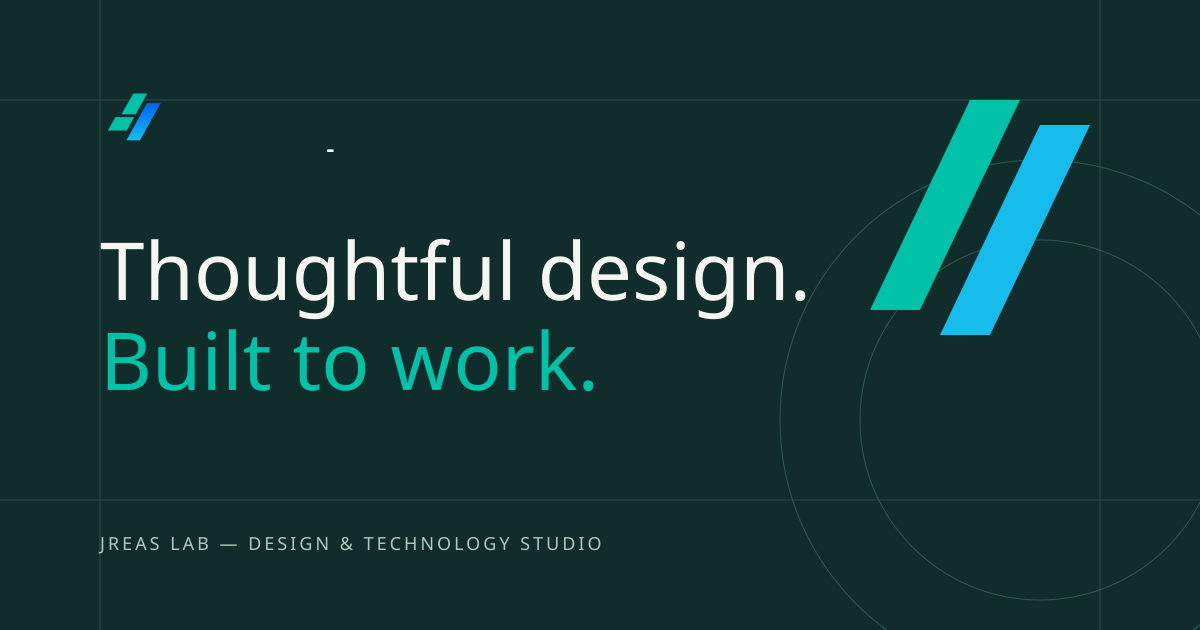
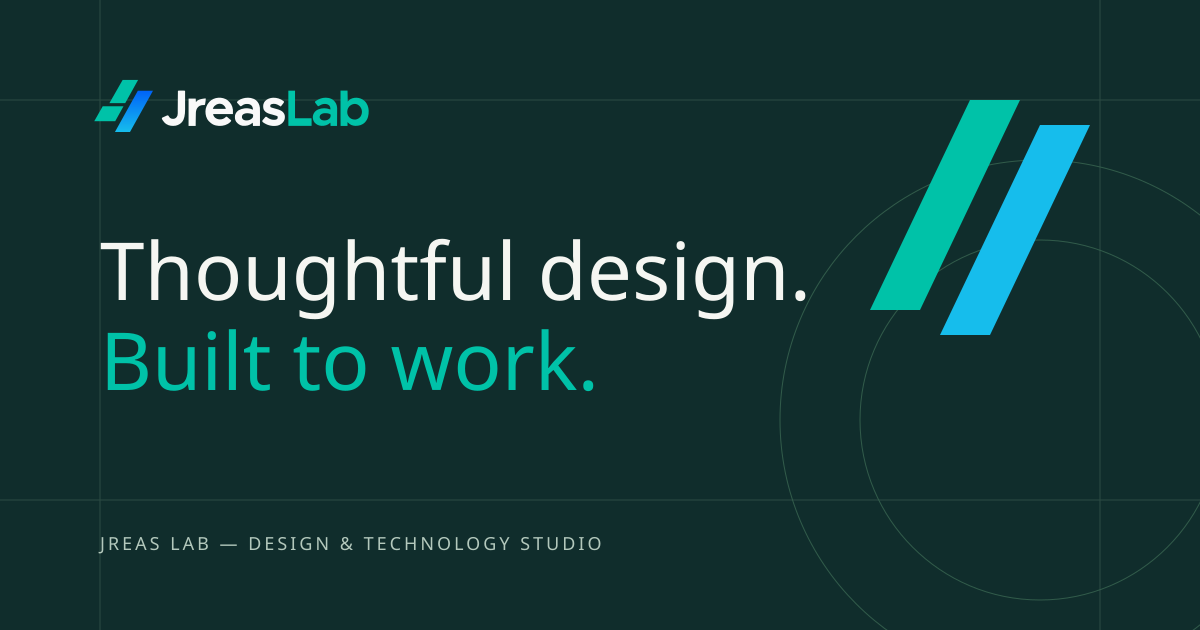
fix: restore full wordmark and add responsive accessibility review

Changed region(s): [[0.0617, 0.1206, 0.3083, 0.2413]]

diff --git a/src/utils/seo.js b/src/utils/seo.js
@@ -3,7 +3,7 @@ import {services} from '../data/services';
 import {projects} from '../data/projects';
 export const SITE_URL=(import.meta.env?.VITE_SITE_URL||'https://jreaslab-global.vercel.app').replace(/\/$/,'');
 export function publicPaths(){return ['ar','en'].flatMap(lang=>['','/services',...services.map(s=>`/services/${s.slug}`),'/work',...projects.map(p=>`/work/${p.slug}`),'/about','/contact'].map(p=>`/${lang}${p}`));}
-export function getMeta(pathname){const clean=pathname.replace(/\/$/,'')||'/ar';const segments=clean.split('/').filter(Boolean),lang=segments[0]==='en'?'en':'ar',r=resources[lang].translation;const page=segments[1]||'home';let title=r.seo[page]||r.seo.home,description=r.seo.description;let valid=publicPaths().includes(clean);if(segments[1]==='services'&&segments[2]){const s=services.find(s=>s.slug===segments[2]);if(s){title=`${s[lang].title} | Jreas Lab`;description=s[lang].short;}}if(segments[1]==='work'&&segments[2]){const p=projects.find(p=>p.slug===segments[2]);if(p){title=`${p[lang].title} — ${r.common.concept} | Jreas Lab`;description=p[lang].summary;}}if(!valid){title=`404 | Jreas Lab`;description=r.common.notfound;}const suffix=segments.slice(1).join('/');return {title,description,lang,dir:lang==='ar'?'rtl':'ltr',url:`${SITE_URL}${clean}`,ar:`${SITE_URL}/ar${suffix?'/'+suffix:''}`,en:`${SITE_URL}/en${suffix?'/'+suffix:''}`,valid};}
+export function getMeta(pathname){const clean=pathname.replace(/\/$/,'')||'/ar';const segments=clean.split('/').filter(Boolean),lang=segments[0]==='en'?'en':'ar',r=resources[lang].translation;const page=segments[1]||'home';let title=r.seo[page]||r.seo.home,description=({services:r.services.description,work:r.work.description,about:r.about.description,contact:r.contact.description})[page]||r.seo.description;let valid=publicPaths().includes(clean);if(segments[1]==='services'&&segments[2]){const s=services.find(s=>s.slug===segments[2]);if(s){title=`${s[lang].title} | Jreas Lab`;description=s[lang].short;}}if(segments[1]==='work'&&segments[2]){const p=projects.find(p=>p.slug===segments[2]);if(p){title=`${p[lang].title} — ${r.common.concept} | Jreas Lab`;description=p[lang].summary;}}if(!valid){title=`404 | Jreas Lab`;description=r.common.notfound;}const suffix=segments.slice(1).join('/');return {title,description,lang,dir:lang==='ar'?'rtl':'ltr',url:`${SITE_URL}${clean}`,ar:`${SITE_URL}/ar${suffix?'/'+suffix:''}`,en:`${SITE_URL}/en${suffix?'/'+suffix:''}`,valid};}
 const escape=(s)=>String(s).replace(/[&<>"']/g,c=>({'&':'&amp;','<':'&lt;','>':'&gt;','"':'&quot;',"'":'&#39;'}[c]));
 export function renderHead(meta){const m=meta;return `<title>${escape(m.title)}</title><meta name="description" content="${escape(m.description)}"/><meta name="robots" content="${m.valid?'index,follow':'noindex,follow'}"/><link rel="canonical" href="${m.url}"/><link rel="alternate" hreflang="ar" href="${m.ar}"/><link rel="alternate" hreflang="en" href="${m.en}"/><link rel="alternate" hreflang="x-default" href="${m.ar}"/><meta property="og:type" content="website"/><meta property="og:site_name" content="Jreas Lab"/><meta property="og:title" content="${escape(m.title)}"/><meta property="og:description" content="${escape(m.description)}"/><meta property="og:url" content="${m.url}"/><meta property="og:locale" content="${m.lang==='ar'?'ar_PS':'en_US'}"/><meta property="og:image" content="${SITE_URL}/images/og-cover.png"/><meta property="og:image:width" content="1200"/><meta property="og:image:height" content="630"/><meta name="twitter:card" content="summary_large_image"/><meta name="twitter:title" content="${escape(m.title)}"/><meta name="twitter:description" content="${escape(m.description)}"/><meta name="twitter:image" content="${SITE_URL}/images/og-cover.png"/><script type="application/ld+json">${JSON.stringify({'@context':'https://schema.org','@type':'Organization',name:'Jreas Lab',url:SITE_URL,logo:`${SITE_URL}/images/logo-dark.svg`,email:'info@jreaslab.com',telephone:'+970597747340',sameAs:['https://www.linkedin.com/company/jreas-lab1/','https://www.instagram.com/jreas_lab/','https://x.com/JreasLab'],contactPoint:{'@type':'ContactPoint',contactType:'customer service',email:'info@jreaslab.com',availableLanguage:['Arabic','English']}})}</script>`;}
 export function applyMeta(meta){document.title=meta.title;const temp=document.createElement('template');temp.innerHTML=renderHead(meta);document.head.querySelectorAll('meta[name="description"],meta[name="robots"],link[rel="canonical"],link[rel="alternate"][hreflang],meta[property^="og:"],meta[name^="twitter:"],script[type="application/ld+json"]').forEach(n=>n.remove());Array.from(temp.content.children).filter(n=>n.tagName!=='TITLE').forEach(n=>document.head.appendChild(n));}

diff --git a/src/components/sections/Process.jsx b/src/components/sections/Process.jsx
@@ -2,4 +2,4 @@ import {useState,useId} from 'react';
 import {Plus,Minus} from 'lucide-react';
 import {useLocale} from '../../hooks/useLocale';
 import {SectionHead} from '../ui/Elements';
-export default function Process(){const {t}=useLocale();const [active,setActive]=useState(0);const id=useId();const steps=t('process.steps',{returnObjects:true});return <section className="process-section section"><div className="container"><SectionHead eyebrow={t('process.eyebrow')} title={t('process.title')} description={t('process.description')}/><div className="process-layout"><div className="process-art" aria-hidden="true"><div className="process-track">{steps.map((_,i)=><span key={i} className={i===active?'current':''}><i/>0{i+1}</span>)}</div><div className="process-big-number">0{active+1}<span>/ 05</span></div><span className="process-caption">JREAS LAB — {new Date().getFullYear()}</span></div><div className="process-list">{steps.map((s,i)=><div key={s.title} className={`process-step ${i===active?'is-open':''}`}><h3><button id={`${id}-button-${i}`} aria-expanded={active===i} aria-controls={`${id}-panel-${i}`} onClick={()=>setActive(active===i?-1:i)}><span className="step-number">0{i+1}</span>{s.title}{active===i?<Minus aria-hidden="true"/>:<Plus aria-hidden="true"/>}</button></h3><div id={`${id}-panel-${i}`} role="region" aria-labelledby={`${id}-button-${i}`} hidden={active!==i}><p>{s.text}</p></div></div>)}</div></div></div></section>;}
+export default function Process(){const {t}=useLocale();const [active,setActive]=useState(0);const id=useId();const steps=t('process.steps',{returnObjects:true});return <section className="process-section section"><div className="container"><SectionHead eyebrow={t('process.eyebrow')} title={t('process.title')} description={t('process.description')}/><div className="process-layout"><div className="process-art" aria-hidden="true"><div className="process-track">{steps.map((_,i)=><span key={i} className={i===active?'current':''}><i/>0{i+1}</span>)}</div><div className="process-big-number">0{active+1}<span>/ 05</span></div><span className="process-caption">JREAS LAB — {new Date().getFullYear()}</span></div><div className="process-list">{steps.map((s,i)=><div key={s.title} className={`process-step ${i===active?'is-open':''}`}><h3><button id={`${id}-button-${i}`} aria-expanded={active===i} aria-controls={`${id}-panel-${i}`} onClick={()=>setActive(i)}><span className="step-number">0{i+1}</span>{s.title}{active===i?<Minus aria-hidden="true"/>:<Plus aria-hidden="true"/>}</button></h3><div id={`${id}-panel-${i}`} role="region" aria-labelledby={`${id}-button-${i}`} hidden={active!==i}><p>{s.text}</p></div></div>)}</div></div></div></section>;}

diff --git a/src/pages/ReviewPage.jsx b/src/pages/ReviewPage.jsx
@@ -1,0 +1,2 @@
+import {useRef,useState} from 'react';
+export default function ReviewPage(){const [width,setWidth]=useState(390);const [lang,setLang]=useState('ar');const [page,setPage]=useState('');const [report,setReport]=useState(null);const frame=useRef();async function audit(){setReport({running:true});const {default:axe}=await import('axe-core');const doc=frame.current.contentDocument;const results=await axe.run(doc,{runOnly:{type:'tag',values:['wcag2a','wcag2aa','wcag21aa']}});setReport({viewport:doc.defaultView.innerWidth,scrollWidth:doc.documentElement.scrollWidth,violations:results.violations.map(v=>({id:v.id,impact:v.impact,description:v.description,nodes:v.nodes.map(n=>({target:n.target,summary:n.failureSummary}))})),passes:results.passes.length});}const scale=Math.min(1,1200/width);return <div style={{direction:'ltr',fontFamily:'system-ui',padding:24,background:'#e1e6e0',minHeight:'100vh'}}><h1 style={{fontSize:20}}>Jreas Lab — responsive review</h1><div style={{display:'flex',gap:20,alignItems:'center',marginBottom:20,flexWrap:'wrap'}}><label>Viewport <select value={width} onChange={e=>{setWidth(Number(e.target.value));setReport(null);}}>{[360,390,768,1366,1920].map(w=><option key={w} value={w}>{w}px</option>)}</select></label><label>Language <select value={lang} onChange={e=>{setLang(e.target.value);setReport(null);}}><option value="ar">Arabic</option><option value="en">English</option></select></label><label>Page <select value={page} onChange={e=>{setPage(e.target.value);setReport(null);}}><option value="">Home</option><option value="/services">Services</option><option value="/services/data-ai">Service details</option><option value="/work">Work</option><option value="/work/care-booking">Concept details</option><option value="/about">About</option><option value="/contact">Contact</option></select></label><button type="button" onClick={audit}>Check accessibility</button></div><div style={{width:width*scale,height:844*scale,marginInline:'auto',boxShadow:'0 15px 60px #102d2c22'}}><iframe ref={frame} title="Responsive site preview" key={`${width}-${lang}-${page}`} src={`/${lang}${page}`} width={width} height={844} style={{display:'block',border:0,transform:`scale(${scale})`,transformOrigin:'top left'}}/></div>{report&&<pre style={{whiteSpace:'pre-wrap',fontSize:12,maxWidth:1200,margin:'30px auto',background:'#fff',padding:20}}>{JSON.stringify(report,null,2)}</pre>}</div>;}

diff --git a/src/App.jsx b/src/App.jsx
@@ -9,5 +9,6 @@ import WorkPage from './pages/WorkPage';
 import AboutPage from './pages/AboutPage';
 import ContactPage from './pages/ContactPage';
 import NotFound from './pages/NotFound';
+const ReviewPage=lazy(()=>import('./pages/ReviewPage'));
 const ProjectDetail=lazy(()=>import('./pages/ProjectDetail'));
-export default function App(){return <MotionConfig reducedMotion="user"><Suspense fallback={<div className="route-loading" aria-busy="true">Jreas Lab…</div>}><Routes><Route path="/" element={<Navigate to="/ar" replace/>}/>{['ar','en'].map(lang=><Route key={lang} path={`/${lang}`} element={<Layout/>}><Route index element={<Home/>}/><Route path="services" element={<ServicesPage/>}/><Route path="services/:slug" element={<ServiceDetail/>}/><Route path="work" element={<WorkPage/>}/><Route path="work/:slug" element={<ProjectDetail/>}/><Route path="about" element={<AboutPage/>}/><Route path="contact" element={<ContactPage/>}/><Route path="*" element={<NotFound/>}/></Route>)}<Route path="*" element={<Layout/>}><Route path="*" element={<NotFound/>}/></Route></Routes></Suspense></MotionConfig>;}
+export default function App(){return <MotionConfig reducedMotion="user"><Suspense fallback={<div className="route-loading" aria-busy="true">Jreas Lab…</div>}><Routes><Route path="/__review" element={<ReviewPage/>}/><Route path="/" element={<Navigate to="/ar" replace/>}/>{['ar','en'].map(lang=><Route key={lang} path={`/${lang}`} element={<Layout/>}><Route index element={<Home/>}/><Route path="services" element={<ServicesPage/>}/><Route path="services/:slug" element={<ServiceDetail/>}/><Route path="work" element={<WorkPage/>}/><Route path="work/:slug" element={<ProjectDetail/>}/><Route path="about" element={<AboutPage/>}/><Route path="contact" element={<ContactPage/>}/><Route path="*" element={<NotFound/>}/></Route>)}<Route path="*" element={<Layout/>}><Route path="*" element={<NotFound/>}/></Route></Routes></Suspense></MotionConfig>;}

diff --git a/src/pages/AboutPage.jsx b/src/pages/AboutPage.jsx
@@ -2,4 +2,4 @@ import {useLocale} from '../hooks/useLocale';
 import {PageHeading} from '../components/ui/Elements';
 import Process from '../components/sections/Process';
 import CallToAction from '../components/sections/CallToAction';
-export default function AboutPage(){const {t}=useLocale();return <><PageHeading eyebrow={t('nav.about')} title={t('about.title')} description={t('about.description')}/><section className="container about-story"><div className="studio-wall" aria-hidden="true"><span>JREAS<br/>LAB<span>®</span></span><img src="/favicon.svg" alt="" width="280" height="280"/><small>DESIGN / BUILD / REFINE</small></div><div className="about-prose"><p>{t('about.body')}</p><p>{t('about.global')}</p></div></section><section className="container section values-grid">{t('about.values',{returnObjects:true}).map((v,i)=><article key={v.title}><span>0{i+1}</span><h2>{v.title}</h2><p>{v.text}</p></article>)}</section><Process/><CallToAction/></>;}
+export default function AboutPage(){const {t}=useLocale();return <><PageHeading eyebrow={t('nav.about')} title={t('about.title')} description={t('about.description')}/><section className="container about-story"><div className="studio-wall" aria-hidden="true"><span>JREAS<br/>LAB</span><img src="/favicon.svg" alt="" width="280" height="280"/><small>DESIGN / BUILD / REFINE</small></div><div className="about-prose"><p>{t('about.body')}</p><p>{t('about.global')}</p></div></section><section className="container section values-grid">{t('about.values',{returnObjects:true}).map((v,i)=><article key={v.title}><span>0{i+1}</span><h2>{v.title}</h2><p>{v.text}</p></article>)}</section><Process/><CallToAction/></>;}

diff --git a/src/main.jsx b/src/main.jsx
@@ -15,4 +15,4 @@ import './styles/project-art.css';
 const lang=window.location.pathname.startsWith('/en')?'en':'ar';
 const app=<StrictMode><I18nextProvider i18n={createI18n(lang)}><BrowserRouter><App/></BrowserRouter></I18nextProvider></StrictMode>;
 const root=document.getElementById('root');
-if(root.hasChildNodes()&&!root.innerHTML.includes('<!--app-->'))hydrateRoot(root,app);else createRoot(root).render(app);
+if(!document.querySelector('meta[name="robots"][content^="noindex"]')&&root.hasChildNodes()&&!root.innerHTML.includes('<!--app-->'))hydrateRoot(root,app);else createRoot(root).render(app);

diff --git a/docs/RESEARCH.md b/docs/RESEARCH.md
@@ -2,7 +2,7 @@
 
 ## Sources inspected
 
-Official https://jreaslab.com/ar and identity https://jreaslab.vercel.app/; read-only repository https://github.com/ethanmarten/jreaslab. The current wordmark SVG was retrieved from the latter deployed site's `assets/img/logo.svg`. Kept the original vector paths and brand teal/cyan; dark variant changes the white wordmark fill only. Favicon uses the original symbol's viewBox, without redrawing it.
+Official https://jreaslab.com/ar and identity https://jreaslab.vercel.app/; read-only repository https://github.com/ethanmarten/jreaslab. The current wordmark SVG was retrieved from the latter deployed site's `assets/img/logo.svg`. Kept the original vector paths and brand teal/cyan, removing misplaced per-letter animation transforms that clipped the source wordmark; dark variant changes the white wordmark fill only. Favicon uses the original symbol's viewBox, without redrawing it.
 
 Official contact: info@jreaslab.com, +970597747340. Social URLs were observed on the identity site's footer: LinkedIn jreas-lab1, Instagram jreas_lab, X JreasLab. No claims about offices, customer counts, awards or international clients.
 

diff --git a/README.md b/README.md
@@ -91,3 +91,5 @@ Import this repository as a **new** Vite project. Branch `main`, build `npm run 
 ## Asset rights
 
 Brand assets belong to Jreas Lab. No reference-site images, code or brand assets were copied. Three concept interface illustrations are original CSS compositions; dashboard figures are sample data. Font licenses are bundled by their Fontsource packages (IBM Plex OFL, DM Sans OFL); Lucide uses ISC, Motion MIT. This repository does not grant ownership of Jreas Lab trademarks to third parties.
+
+A separate, unlinked `/__review` page provides 360/390/768/1366/1920px iframe viewports and an on-demand axe accessibility check for maintainers. It is noindex, excluded from the sitemap, and its audit code is loaded separately from the public website. It contains no privileged tools or private data.
